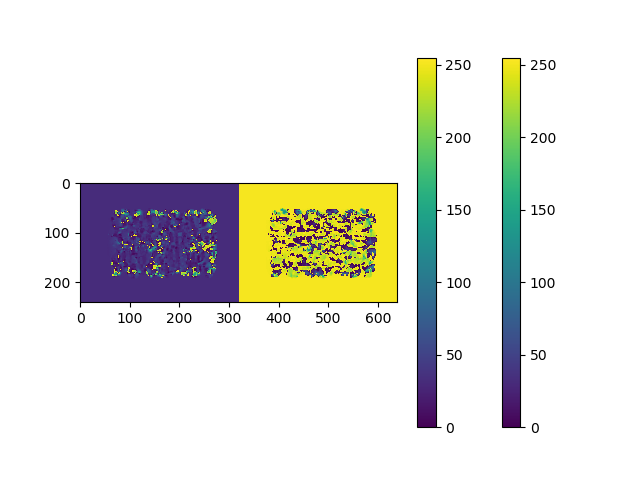
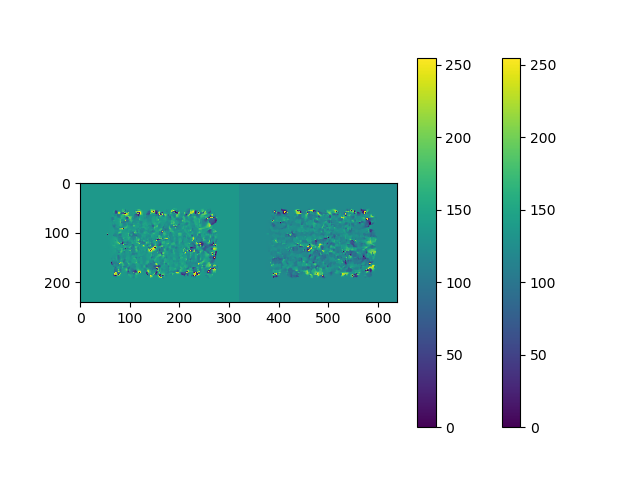
2a

Changed region(s): [[0.125, 0.375, 0.625, 0.6562]]

diff --git a/ps5_python_Plokhovska_Zhanneta/ps5.py b/ps5_python_Plokhovska_Zhanneta/ps5.py
@@ -77,65 +77,96 @@ def normalize(img, distribute = True):
 		img = (img * (1/img.max()) * 255) # distribute values between 0 and 255
 	return img.astype('uint8')
 
-def main():
-	# 1-A: LK optic flow estimation
-	print "\n-----------------------1-A-----------------------" 
-	# Read images
-	shift0 = cv2.imread(os.path.join('input/TestSeq', 'Shift0.png'), 0) #* (1.0 / 255.0) # grayscale
-	shiftr2 = cv2.imread(os.path.join('input/TestSeq', 'ShiftR2.png'), 0) #* (1.0 / 255.0)  # grayscale
-	shiftr5u5 = cv2.imread(os.path.join('input/TestSeq', 'ShiftR5U5.png'), 0) #* (1.0 / 255.0)  # grayscale
-	shiftr10 = cv2.imread(os.path.join('input/TestSeq', 'ShiftR10.png'), 0) #* (1.0 / 255.0)  # grayscale
-	shiftr20 = cv2.imread(os.path.join('input/TestSeq', 'ShiftR20.png'), 0) #* (1.0 / 255.0)  # grayscale
-	shiftr40 = cv2.imread(os.path.join('input/TestSeq', 'ShiftR40.png'), 0) #* (1.0 / 255.0)  # grayscale
-	# Smooth images
-	shift0 = cv2.GaussianBlur(shift0, (3, 3), 0)
-	shiftr2 = cv2.GaussianBlur(shiftr2, (3, 3), 0)
-	shiftr5u5 = cv2.GaussianBlur(shiftr5u5, (3, 3), 0)
-	shiftr10 = cv2.GaussianBlur(shiftr10, (3, 3), 0)
-	shiftr20 = cv2.GaussianBlur(shiftr20, (3, 3), 0)
-	shiftr40 = cv2.GaussianBlur(shiftr40, (3, 3), 0)
-	# Get image gradients
-	shift0_Ix, shift0_Iy = compute_gradient(shift0)
-	# Get image difference
-	shift0_shiftr2_It = shiftr2 - shift0
-	shift0_shiftr5u5_It = shiftr5u5 - shift0
-	# Calculate displacement images using LK optic flow estimation
-	shift0_shiftr2_u, shift0_shiftr2_v = lk_optic_flow(shift0_Ix, shift0_Iy, shift0_shiftr2_It)
-	shift0_shiftr5u5_u, shift0_shiftr5u5_v = lk_optic_flow(shift0_Ix, shift0_Iy, shift0_shiftr5u5_It)
-	# Save images
-	shift0_shiftr2 = cv2.hconcat([normalize(shift0_shiftr2_u, False), normalize(shift0_shiftr2_v, False)])
-	plt.imshow(shift0_shiftr2);
-	plt.colorbar()
-	plt.savefig('output/ps5-1-a-1.png')
-	shift0_shiftr5u5 = cv2.hconcat([normalize(shift0_shiftr5u5_u, False), normalize(shift0_shiftr5u5_v, False)])
-	plt.imshow(shift0_shiftr5u5);
-	plt.savefig('output/ps5-1-a-2.png')
+def reduce(img):
+	return img[::2, 1::2]
 	
-	# 1-B: LK optic flow estimation
-	print "\n-----------------------1-B-----------------------" 
-	# Get image difference
-	shift0_shiftr10_It = shiftr10 - shift0
-	shift0_shiftr20_It = shiftr20 - shift0
-	shift0_shiftr40_It = shiftr40 - shift0
-	# Calculate displacement images using LK optic flow estimation
-	shift0_shiftr10_u, shift0_shiftr10_v = lk_optic_flow(shift0_Ix, shift0_Iy, shift0_shiftr10_It)
-	shift0_shiftr20_u, shift0_shiftr20_v = lk_optic_flow(shift0_Ix, shift0_Iy, shift0_shiftr20_It)
-	shift0_shiftr40_u, shift0_shiftr40_v = lk_optic_flow(shift0_Ix, shift0_Iy, shift0_shiftr40_It)
-	# Save images
-	shift0_shiftr10 = cv2.hconcat([normalize(shift0_shiftr10_u, False), normalize(shift0_shiftr10_v, False)])
-	plt.imshow(shift0_shiftr10);
-	plt.colorbar()
-	plt.savefig('output/ps5-1-b-1.png')
-	shift0_shiftr20 = cv2.hconcat([normalize(shift0_shiftr20_u, False), normalize(shift0_shiftr20_v, False)])
-	plt.imshow(shift0_shiftr20);
-	plt.savefig('output/ps5-1-b-2.png')
-	shift0_shiftr40 = cv2.hconcat([normalize(shift0_shiftr40_u, False), normalize(shift0_shiftr40_v, False)])
-	plt.imshow(shift0_shiftr40);
-	plt.savefig('output/ps5-1-b-3.png')
+def main():
+	if False:
+		# 1-A: LK optic flow estimation
+		print "\n-----------------------1-A-----------------------" 
+		# Read images
+		shift0 = cv2.imread(os.path.join('input/TestSeq', 'Shift0.png'), 0)
+		shiftr2 = cv2.imread(os.path.join('input/TestSeq', 'ShiftR2.png'), 0)
+		shiftr5u5 = cv2.imread(os.path.join('input/TestSeq', 'ShiftR5U5.png'), 0)
+		shiftr10 = cv2.imread(os.path.join('input/TestSeq', 'ShiftR10.png'), 0)
+		shiftr20 = cv2.imread(os.path.join('input/TestSeq', 'ShiftR20.png'), 0)
+		shiftr40 = cv2.imread(os.path.join('input/TestSeq', 'ShiftR40.png'), 0)
+		# Smooth images
+		shift0 = cv2.GaussianBlur(shift0, (5, 5), 0)
+		shiftr2 = cv2.GaussianBlur(shiftr2, (5, 5), 0)
+		shiftr5u5 = cv2.GaussianBlur(shiftr5u5, (5, 5), 0)
+		shiftr10 = cv2.GaussianBlur(shiftr10, (5, 5), 0)
+		shiftr20 = cv2.GaussianBlur(shiftr20, (5, 5), 0)
+		shiftr40 = cv2.GaussianBlur(shiftr40, (5, 5), 0)
+		# Get image gradients
+		shift0_Ix, shift0_Iy = compute_gradient(shift0)
+		# Get image difference
+		shift0_shiftr2_It = shiftr2 - shift0
+		shift0_shiftr5u5_It = shiftr5u5 - shift0
+		# Calculate displacement images using LK optic flow estimation
+		shift0_shiftr2_u, shift0_shiftr2_v = lk_optic_flow(shift0_Ix, shift0_Iy, shift0_shiftr2_It)
+		shift0_shiftr5u5_u, shift0_shiftr5u5_v = lk_optic_flow(shift0_Ix, shift0_Iy, shift0_shiftr5u5_It)
+		# Save images
+		shift0_shiftr2 = cv2.hconcat([normalize(shift0_shiftr2_u, False), normalize(shift0_shiftr2_v, False)])
+		plt.imshow(shift0_shiftr2);
+		plt.colorbar()
+		plt.savefig('output/ps5-1-a-1.png')
+		shift0_shiftr5u5 = cv2.hconcat([normalize(shift0_shiftr5u5_u, False), normalize(shift0_shiftr5u5_v, False)])
+		plt.imshow(shift0_shiftr5u5);
+		plt.savefig('output/ps5-1-a-2.png')
+		
+		# 1-B: LK optic flow estimation
+		print "\n-----------------------1-B-----------------------" 
+		# Get image difference
+		shift0_shiftr10_It = shiftr10 - shift0
+		shift0_shiftr20_It = shiftr20 - shift0
+		shift0_shiftr40_It = shiftr40 - shift0
+		# Calculate displacement images using LK optic flow estimation
+		shift0_shiftr10_u, shift0_shiftr10_v = lk_optic_flow(shift0_Ix, shift0_Iy, shift0_shiftr10_It)
+		shift0_shiftr20_u, shift0_shiftr20_v = lk_optic_flow(shift0_Ix, shift0_Iy, shift0_shiftr20_It)
+		shift0_shiftr40_u, shift0_shiftr40_v = lk_optic_flow(shift0_Ix, shift0_Iy, shift0_shiftr40_It)
+		# Save images
+		shift0_shiftr10 = cv2.hconcat([normalize(shift0_shiftr10_u, False), normalize(shift0_shiftr10_v, False)])
+		plt.imshow(shift0_shiftr10);
+		plt.colorbar()
+		plt.savefig('output/ps5-1-b-1.png')
+		shift0_shiftr20 = cv2.hconcat([normalize(shift0_shiftr20_u, False), normalize(shift0_shiftr20_v, False)])
+		plt.imshow(shift0_shiftr20);
+		plt.savefig('output/ps5-1-b-2.png')
+		shift0_shiftr40 = cv2.hconcat([normalize(shift0_shiftr40_u, False), normalize(shift0_shiftr40_v, False)])
+		plt.imshow(shift0_shiftr40);
+		plt.savefig('output/ps5-1-b-3.png')
 	
 	# 2-A: Gaussian and Laplacian Pyramids
-	print "\n-----------------------1-B-----------------------" 
-	
+	print "\n-----------------------2-A-----------------------" 
+	# Read images
+	yos1 = cv2.imread(os.path.join('input/DataSeq1', 'yos_img_01.jpg'), 0)
+	yos2 = cv2.imread(os.path.join('input/DataSeq1', 'yos_img_02.jpg'), 0)
+	yos3 = cv2.imread(os.path.join('input/DataSeq1', 'yos_img_03.jpg'), 0)
+	# Smooth images
+	yos1 = cv2.GaussianBlur(yos1, (5, 5), 0)
+	yos2 = cv2.GaussianBlur(yos2, (5, 5), 0)
+	yos3 = cv2.GaussianBlur(yos3, (5, 5), 0)
+	# Reduce images
+	yos1_reduced1 = reduce(yos1)
+	yos1_reduced2 = reduce(yos1_reduced1)
+	yos1_reduced3 = reduce(yos1_reduced2)
+	yos1_reduced4 = reduce(yos1_reduced3)
+	# Save images
+	fig = plt.figure()
+	plt.subplot(711)
+	plt.imshow(yos1_reduced1);
+	plt.title('1/2')
+	plt.subplot(713)
+	plt.imshow(yos1_reduced2);
+	plt.title('1/4')
+	plt.subplot(715)
+	plt.imshow(yos1_reduced3);
+	plt.title('1/8')
+	plt.subplot(717)
+	plt.imshow(yos1_reduced4);
+	plt.title('1/16')
+	plt.savefig('output/ps5-2-a-1.png')
 	
 if __name__ == "__main__":
 	main()
